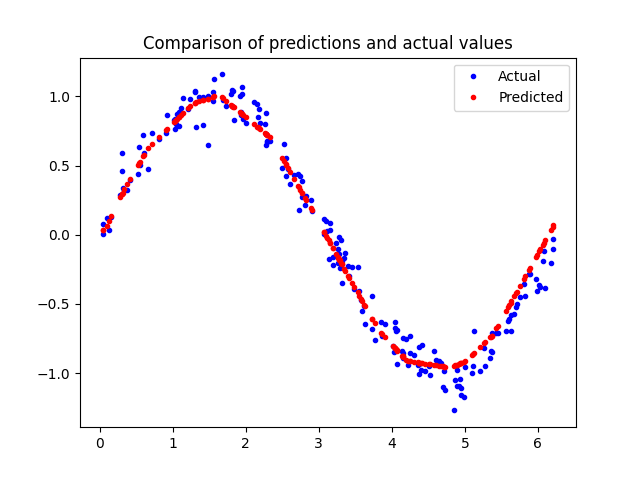
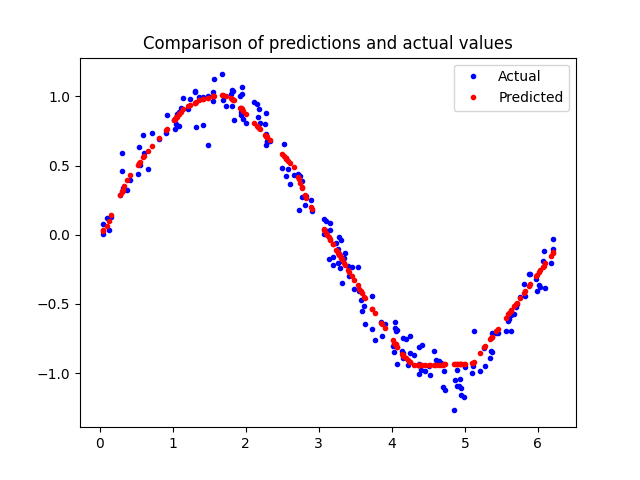
Title: Eradication of overfitting
Description:
	When Batch size was 16, there was a overfitting at the last part
	of the graph, especially after the local minima.
	After rearrange a Batch size to 24, more accurate graph had been
	generated.

diff --git a/tinyml/model_improved.py b/tinyml/model_improved.py
@@ -85,7 +85,7 @@ model_2.summary()
 
 #---------------------------Train a Model----------------------------------#
 
-history_2 = model_2.fit(x_train, y_train, epochs = 600, batch_size = 16, \
+history_2 = model_2.fit(x_train, y_train, epochs = 600, batch_size = 24, \
         validation_data=(x_validate, y_validate))
 
 #-----------------------------Plotting-------------------------------------#
